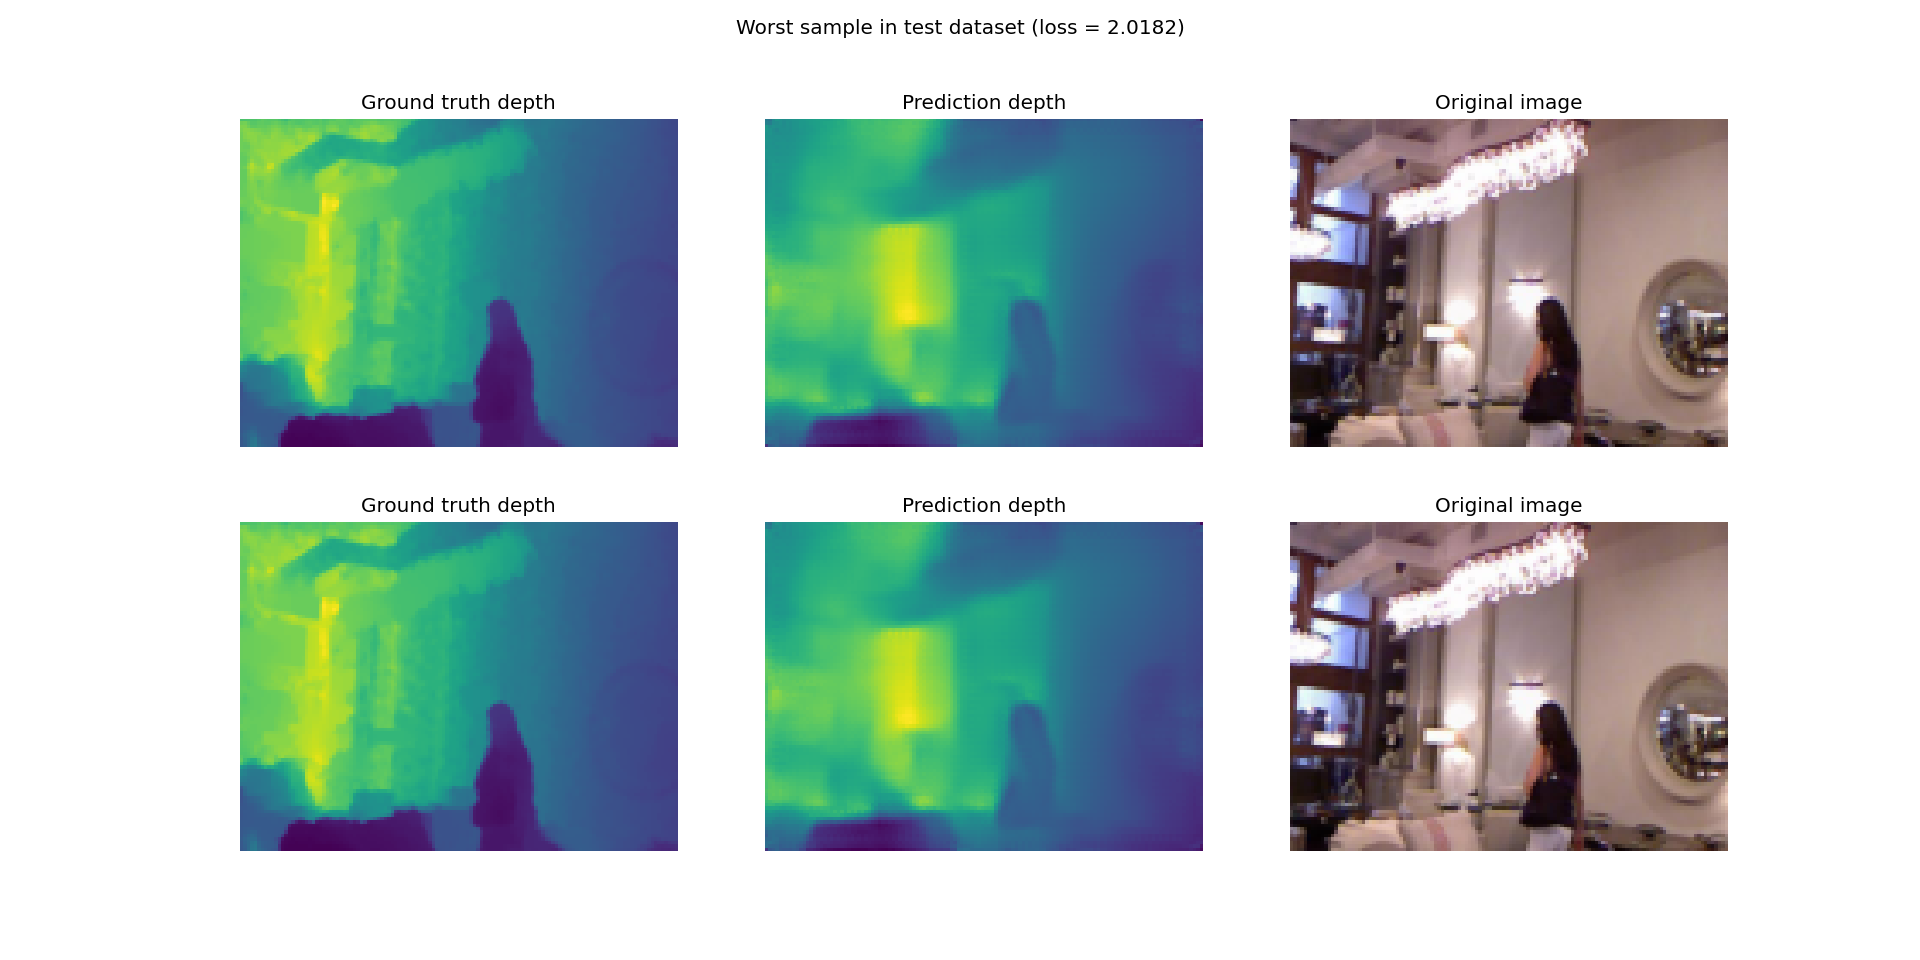
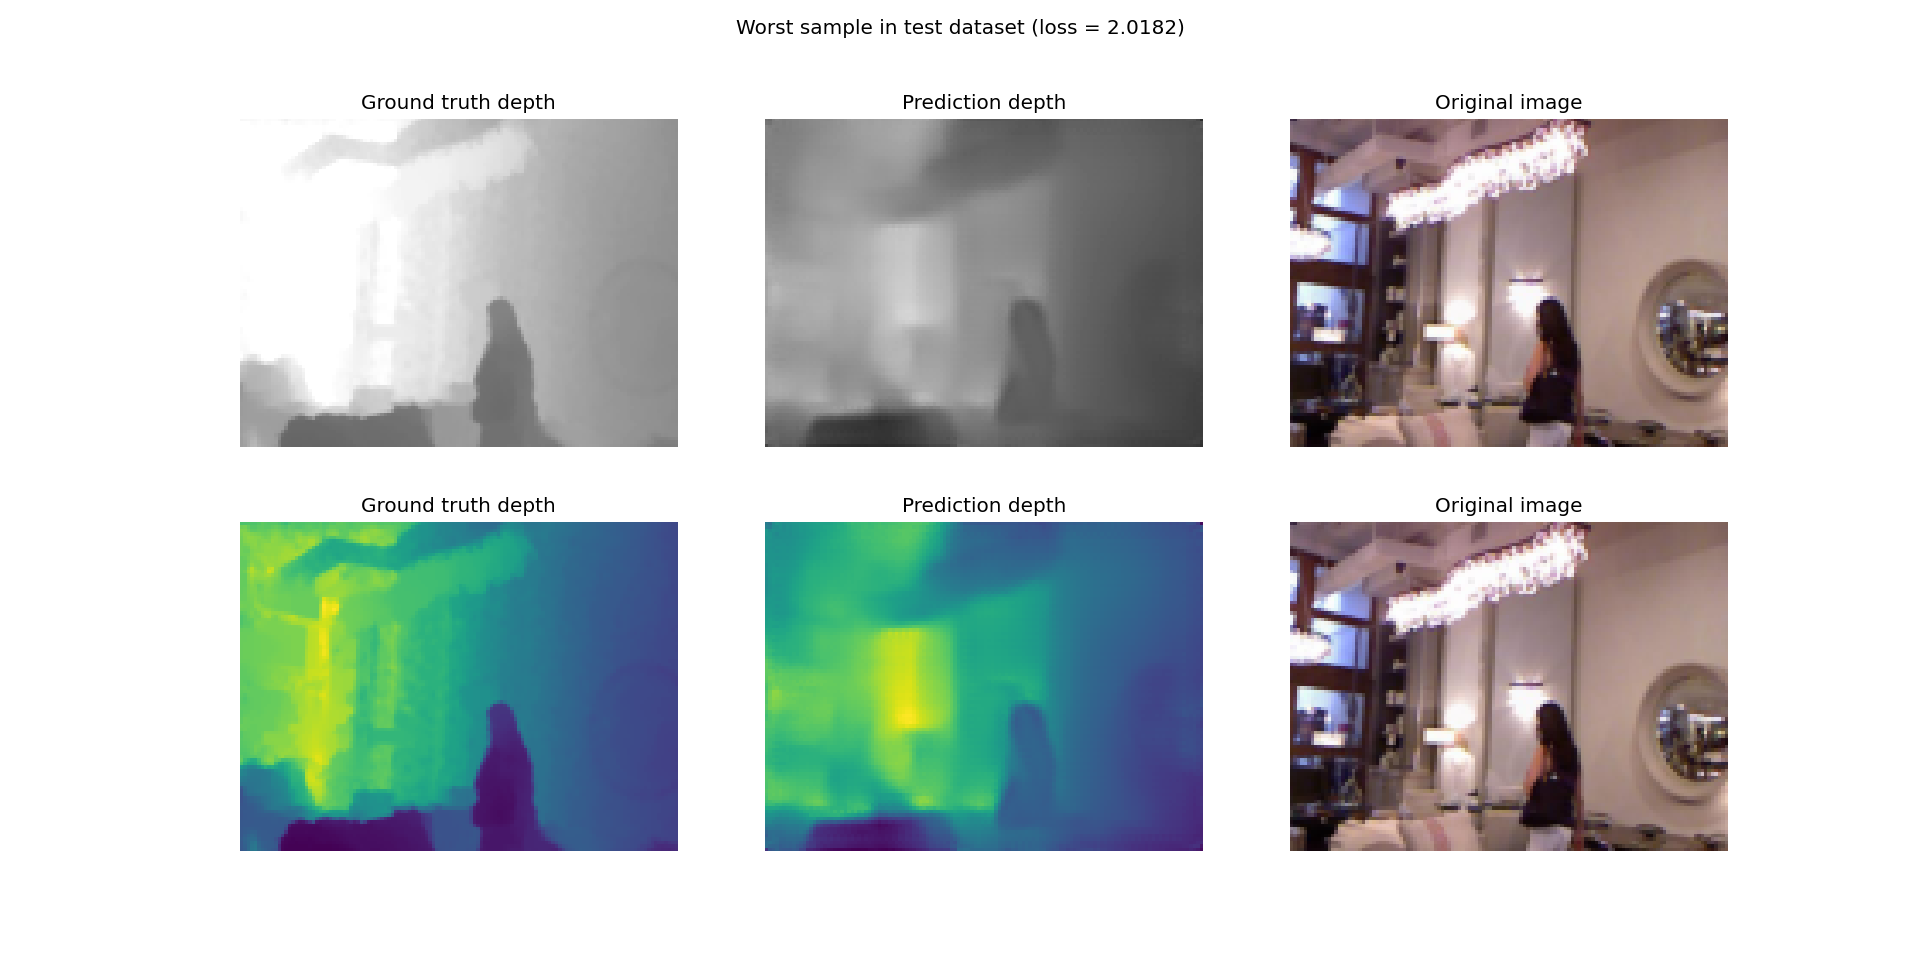
poslendje promene

Changed region(s): [[0.125, 0.125, 0.625, 0.4688]]

diff --git a/evaluate.py b/evaluate.py
@@ -50,11 +50,11 @@ def visualize_sample(model, dataset, title, nsamples=3):
 
         # Visualize
         vmin = 0.1
-        vmax = 10
-        ax[r*3].imshow(gt_depth_numpy, vmin=vmin, vmax=vmax)
+        vmax = 7
+        ax[r*3].imshow(gt_depth_numpy, vmin=vmin, vmax=vmax, cmap='gray')
         ax[r*3].set_axis_off()
         ax[r*3].set_title('Ground truth depth')
-        ax[r*3+1].imshow(depth_numpy, vmin=vmin, vmax=vmax)
+        ax[r*3+1].imshow(depth_numpy, vmin=vmin, vmax=vmax, cmap='gray')
         ax[r*3+1].set_axis_off()
         ax[r*3+1].set_title('Prediction depth')
         ax[r*3+2].imshow(image_numpy)

diff --git a/extreme_samples.py b/extreme_samples.py
@@ -39,12 +39,12 @@ def visualize_sample(img, gt_depth, depth, loss, title):
     # Visualize
     # Real range
     vmin = 0.1
-    vmax = 10
-    ax[0].imshow(gt_depth_numpy)
+    vmax = 7
+    ax[0].imshow(gt_depth_numpy, vmin=vmin, vmax=vmax, cmap='gray')
     ax[0].set_axis_off()
     ax[0].set_title('Ground truth depth')
     ax[0].set_ylabel('Black = 0.1m / White = 10m')
-    ax[1].imshow(depth_numpy)
+    ax[1].imshow(depth_numpy, vmin=vmin, vmax=vmax, cmap='gray')
     ax[1].set_axis_off()
     ax[1].set_title('Prediction depth')
     ax[2].imshow(image_numpy)

diff --git a/test_sample.py b/test_sample.py
@@ -12,7 +12,7 @@ NYUD_STD = [0.28848645, 0.29521945, 0.3089535]
 
 device = torch.device("cuda:0" if torch.cuda.is_available() else "cpu")
 model_path = 'models/' + MODEL_NAME
-sample_img_name = "sample_image.jpeg"
+sample_img_name = "sample_image_2.jpg"
 
 
 def rescale_img(img, output_shape=(IMG_HEIGHT_RESCALE, IMG_WIDTH_RESCALE)):
